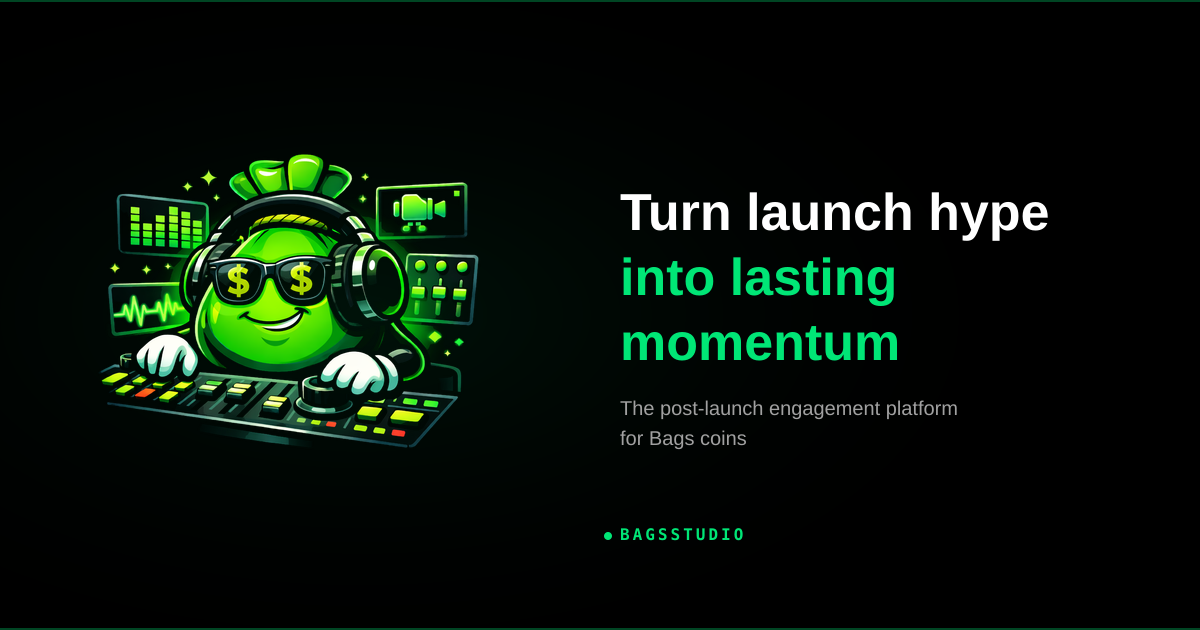
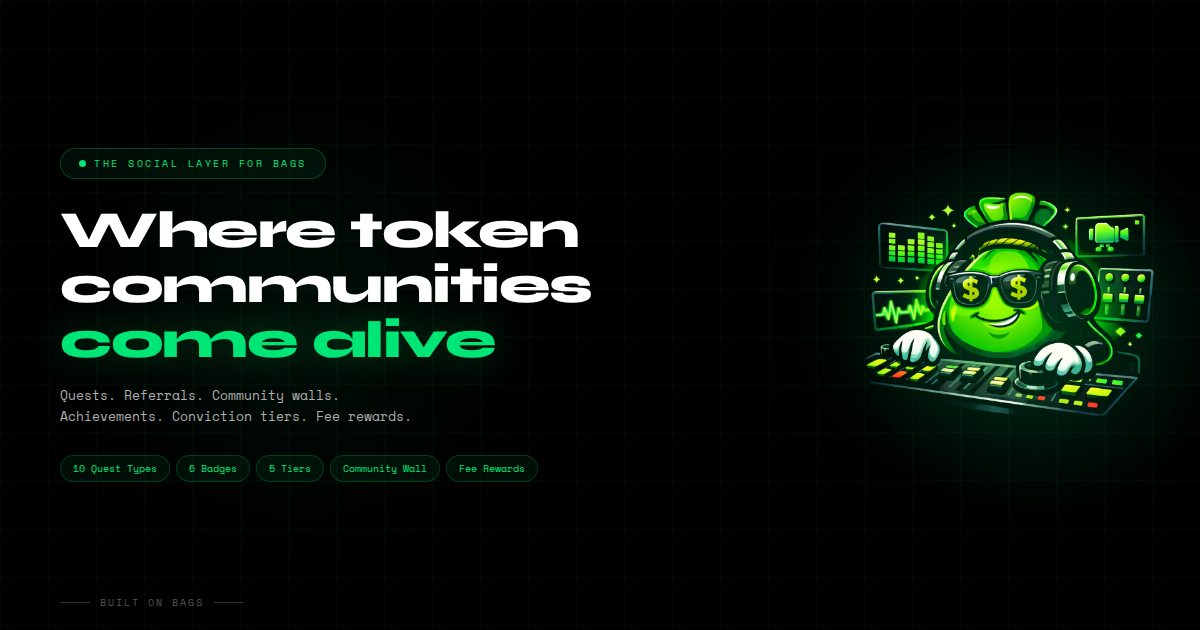
Update README, OG image, and add screenshots for submission
New OG image with mascot and feature pills. Full README rewrite
showcasing all platform features: community wall, 10 quest types,
6 achievement badges, conviction scoring, fee rewards, referral
engine, and profile cards. Added screenshots of all key pages.
Includes architecture diagram, database schema, and staking roadmap.

diff --git a/README.md b/README.md
@@ -1,61 +1,156 @@
-# BagsStudio
+<p align="center">
+  <img src="public/og.png" alt="BagsStudio" width="100%" />
+</p>
 
-The engagement platform for [Bags](https://bags.fm) coins. Launch tokens, trade, claim fees, run quests, and reward your most active supporters — all without leaving BagsStudio.
+<h1 align="center">BagsStudio</h1>
 
-> **Turn launch hype into lasting community momentum.**
+<p align="center">
+  <strong>The social engagement layer for Bags tokens.</strong><br/>
+  Quests. Referrals. Community walls. Achievement badges. Conviction tiers. Fee rewards.<br/>
+  Everything your token needs to build a real community.
+</p>
 
-## What it does
+<p align="center">
+  <a href="#features">Features</a> ·
+  <a href="#screenshots">Screenshots</a> ·
+  <a href="#tech-stack">Tech Stack</a> ·
+  <a href="#getting-started">Getting Started</a> ·
+  <a href="#architecture">Architecture</a> ·
+  <a href="#roadmap">Roadmap</a>
+</p>
 
-BagsStudio wraps the full Bags experience (launch, trade, claim, apps) and layers an engagement system on top: points, referrals, quests, streaks, and SOL-denominated rewards funded by trading fees.
+---
 
-| Layer | Features |
+## Features
+
+### Community Wall
+Token-gated social feed per token. Only holders can post, anyone can react. Five emoji reactions with optimistic UI. Click any wallet to view their full profile card.
+
+### Gamified Quests (10 types)
+All server-side verified. No client-side cheating.
+
+| Quest Type | Verification |
 |---|---|
-| **Bags Wrapper** | Token launch wizard, swap UI, fee claiming, Bags apps marketplace |
-| **Engagement** | Points system (with 10%/mo decay), referral program, quest builder, holding streaks, activity feed |
-| **Rewards** | Fee-share vault config, weekly epoch distribution, pro-rata SOL claims |
+| Token Balance | On-chain via Solana RPC |
+| Holding Streak | Streak tracker in DB |
+| Trade Volume | Trade logs from platform swaps |
+| Referral Count | Verified referrals table |
+| Hold Duration | Streak tracker in DB |
+| Claim Count | Engagement points ledger |
+| Tier Reached | Leaderboard rank percentile |
+| Complete Quests | Meta: count other completions |
+| Social Share | Manual creator approval |
+| Custom | Manual creator approval |
 
-## Tech stack
+### Achievement Badges
+Six badges auto-awarded when conditions are met:
 
-- **Framework** — [Next.js 16](https://nextjs.org) (App Router, Turbopack)
-- **Database** — [Supabase](https://supabase.com) (PostgreSQL + RLS)
-- **Chain** — [Solana](https://solana.com) mainnet via [Helius](https://helius.dev) RPC
-- **Wallet** — `@solana/wallet-adapter` (Phantom, Solflare)
-- **Styling** — [Tailwind CSS 4](https://tailwindcss.com)
-- **Animations** — [Framer Motion](https://www.framer.com/motion)
-- **Data fetching** — [SWR](https://swr.vercel.app)
-- **Tests** — [Playwright](https://playwright.dev)
+- **OG Holder** : Among the first 100 supporters
+- **Diamond Hands** : 30+ day holding streak
+- **Quest Master** : 5+ quests completed
+- **Evangelist** : 10+ verified referrals
+- **Whale** : Top 1% on leaderboard
+- **Social Butterfly** : 10+ community posts
 
-## Getting started
+### Conviction Scoring
+Five tiers based on balance (50pts), claim consistency (30pts), and claim history (20pts):
+
+| Tier | Percentile | Color |
+|---|---|---|
+| Champion | Top 1% | Gold |
+| Catalyst | Top 5% | Purple |
+| Loyal | Top 15% | Green |
+| Active | Top 40% | Blue |
+| OG | Rest | Gray |
+
+### Fee Rewards
+Trade fees accumulate in a vault wallet via Bags AMM fee-share. Weekly epochs distribute SOL pro-rata based on engagement points. Guided setup flow for creators.
+
+### Referral Engine
+Each holder gets a unique referral link. Referrals are verified on-chain (referred wallet must actually hold the token). Both parties earn points.
+
+### Profile Cards
+Click any wallet on the leaderboard or community wall to see their full profile: tier badge, points breakdown, streak, quest count, referral count, post count, and earned achievement badges.
+
+### Dark/Light Mode
+Full theme toggle with CSS variable indirection for Tailwind v4 compatibility. Persists to localStorage.
+
+---
+
+## Screenshots
+
+<table>
+  <tr>
+    <td><img src="public/screenshots/landing.png" alt="Landing Page" /></td>
+    <td><img src="public/screenshots/studio.png" alt="Studio Home" /></td>
+  </tr>
+  <tr>
+    <td align="center"><em>Landing Page</em></td>
+    <td align="center"><em>Studio Home</em></td>
+  </tr>
+  <tr>
+    <td><img src="public/screenshots/dashboard.png" alt="Token Dashboard" /></td>
+    <td><img src="public/screenshots/community.png" alt="Community Wall" /></td>
+  </tr>
+  <tr>
+    <td align="center"><em>Token Dashboard</em></td>
+    <td align="center"><em>Community Wall</em></td>
+  </tr>
+  <tr>
+    <td><img src="public/screenshots/quests.png" alt="Quests" /></td>
+    <td><img src="public/screenshots/rewards.png" alt="Rewards" /></td>
+  </tr>
+  <tr>
+    <td align="center"><em>Quests</em></td>
+    <td align="center"><em>Rewards</em></td>
+  </tr>
+</table>
+
+---
+
+## Tech Stack
+
+| Layer | Technology |
+|---|---|
+| Framework | [Next.js 16](https://nextjs.org) (App Router, Turbopack) |
+| Database | [Supabase](https://supabase.com) (PostgreSQL + RLS) |
+| Chain | [Solana](https://solana.com) mainnet via [Helius](https://helius.dev) RPC |
+| Wallet | `@solana/wallet-adapter` (Phantom, Solflare) |
+| Styling | [Tailwind CSS 4](https://tailwindcss.com) with CSS variable theming |
+| Animations | [Framer Motion](https://www.framer.com/motion) |
+| Data Fetching | [SWR](https://swr.vercel.app) |
+| Testing | [Playwright](https://playwright.dev) |
+
+---
+
+## Getting Started
 
 ### Prerequisites
 
 - Node.js 18+
-- A [Bags API key](https://docs.bags.fm)
-- A [Supabase](https://supabase.com) project
-- A [Helius](https://helius.dev) API key (optional, falls back to public RPC)
+- [Bags API key](https://docs.bags.fm)
+- [Supabase](https://supabase.com) project
+- [Helius](https://helius.dev) API key (optional, falls back to public RPC)
 
 ### Setup
 
 ```bash
-# Clone and install
 git clone https://github.com/your-org/bags-studio.git
 cd bags-studio
 npm install
 
-# Configure environment
 cp .env.example .env
 # Fill in BAGS_API_KEY, SUPABASE_*, HELIUS_API_KEY, CRON_SECRET
 
-# Run the schema migration
-# Copy supabase-schema.sql into the Supabase SQL Editor and execute
+# Run schema migration in Supabase SQL Editor
+# (copy supabase-schema.sql)
 
-# Start dev server
 npm run dev
 ```
 
 Open [http://localhost:3000](http://localhost:3000).
 
-### Environment variables
+### Environment Variables
 
 | Variable | Required | Description |
 |---|---|---|
@@ -66,80 +161,93 @@ Open [http://localhost:3000](http://localhost:3000).
 | `SUPABASE_SERVICE_KEY` | Yes | Supabase service role key (server-side writes) |
 | `CRON_SECRET` | Yes | Auth token for cron job endpoints |
 
-## Project structure
-
-```
-app/
-  api/
-    bags/[...path]/     # Bags API proxy (GET + POST)
-    launch/             # Token launch (metadata, config, tx)
-    trade/              # Swap quote + transaction
-    fees/               # Claimable positions + claim txs
-    engage/[mint]/      # Points, referrals, quests, feed, vault, rewards
-    cron/               # Daily streak/points refresh, weekly reward epochs
-    dashboard/[mint]/   # Consolidated dashboard data
-    campaigns/          # Campaign CRUD + eligibility
-    score/[mint]/       # Conviction score computation
-  studio/
-    launch/             # Token launch wizard
-    [mint]/             # Dashboard, trade, quests, rewards, apps, campaigns
-  r/[code]/             # Referral interstitial page
-  campaign/[id]/        # Public campaign view
-
-components/studio/      # Reusable UI components
-lib/                    # Core business logic
-  bags-wrapper.ts       # Bags API helpers (launch, trade, fees)
-  points.ts             # Points ledger + decay + leaderboard
-  referral.ts           # Referral code generation + verification
-  quests.ts             # Quest CRUD + auto-check + submissions
-  streaks.ts            # Holding streak tracking
-  rewards.ts            # Vault config + epoch creation + claims
-  feed.ts               # Activity feed
-  conviction.ts         # Conviction scoring algorithm
-  cache.ts              # In-memory TTL cache
-  score-cache.ts        # Supabase-backed score cache
-```
+---
 
 ## Architecture
 
 ```
-┌─────────────────────────────────────────────┐
-│              BagsStudio Frontend             │
-│  Launch  Trade  Claim  Apps  Engage          │
-└────────────────┬────────────────────────────┘
-                 │
-┌────────────────▼────────────────────────────┐
-│           Next.js API Routes                │
-│  /api/launch  /api/trade  /api/engage       │
-│  /api/fees    /api/cron   /api/dashboard    │
-└──┬──────────┬──────────┬───────────────────┘
+┌──────────────────────────────────────────────────────┐
+│                 BagsStudio Frontend                  │
+│  Landing · Studio · Dashboard · Community · Quests   │
+│  Trade · Rewards · Referrals · Profiles              │
+└───────────────────┬──────────────────────────────────┘
+                    │
+┌───────────────────▼──────────────────────────────────┐
+│              Next.js API Routes (30+)                │
+│  /api/engage/[mint]/community    (posts, reactions)  │
+│  /api/engage/[mint]/quests       (CRUD, check, submit)│
+│  /api/engage/[mint]/profile      (aggregated profile)│
+│  /api/engage/[mint]/referral     (codes, verify)     │
+│  /api/engage/[mint]/rewards      (vault, epochs)     │
+│  /api/trade  /api/launch  /api/fees  /api/cron       │
+└──┬──────────┬──────────┬─────────────────────────────┘
    │          │          │
    ▼          ▼          ▼
- Bags API   Helius    Supabase
- (launch,   (holders,  (points, quests,
-  trade,     metadata)  referrals, feed,
-  fees,                 rewards, streaks)
-  apps)
+ Bags API   Solana     Supabase (15 tables)
+ (launch,   RPC        (points, quests, community,
+  trade,    (balance    referrals, achievements,
+  fees)     verify)     streaks, rewards, feed)
 ```
 
-### Key design decisions
+### Database (15 tables)
 
-- **Non-custodial** — users sign all transactions via wallet adapter; the server never holds keys
-- **Append-only points** — engagement points are an immutable ledger; the leaderboard is a materialized view with decay applied at read time
-- **Complementary to DividendsBot** — DividendsBot handles passive holder rewards, BagsStudio handles active engagement rewards
-- **Referral interstitial** — referral links go to a branded landing page, not directly to Bags
-- **Social quest approval** — social_share and custom quests require manual creator approval; other types are auto-verified
+| Table | Purpose |
+|---|---|
+| `engagement_points` | Append-only points ledger |
+| `engagement_leaderboard` | Materialized leaderboard with decay |
+| `quests` | Creator-defined quests (10 types) |
+| `quest_completions` | One-per-wallet completion records |
+| `quest_submissions` | Proof submissions for approval quests |
+| `community_posts` | Token-gated social wall |
+| `post_reactions` | Emoji reactions on posts |
+| `achievements` | Earned badge records |
+| `referral_codes` | Unique referral codes per wallet |
+| `referrals` | Referral tracking (pending/verified) |
+| `holding_streaks` | Current and longest streaks |
+| `reward_vaults` | Vault config per token |
+| `reward_epochs` | Weekly distribution snapshots |
+| `reward_claims` | Individual pro-rata claims |
+| `trade_logs` | Swap logs for volume tracking |
 
-## Cron jobs
+### Key Design Decisions
 
-Two cron endpoints need to be called on a schedule (e.g. via [Vercel Cron](https://vercel.com/docs/cron-jobs)):
+- **Non-custodial**: Users sign all transactions via wallet adapter. The server never holds keys.
+- **Server-side verification**: Quest completions verified on the server using on-chain data and Solana RPC. No client-trusted values.
+- **Append-only points**: Engagement points are an immutable ledger. The leaderboard is a materialized view with 10%/month decay.
+- **Token-gated posting**: Community wall requires on-chain token balance > 0 to post. Reactions are open to everyone.
+- **On-chain referral verification**: Referrals only verify when the referred wallet actually holds the token, checked via Solana RPC.
 
-| Endpoint | Schedule | What it does |
+---
+
+## Cron Jobs
+
+| Endpoint | Schedule | Purpose |
 |---|---|---|
-| `POST /api/cron/daily-refresh` | Daily | Updates holding streaks, awards daily hold/streak points, refreshes leaderboard ranks |
-| `POST /api/cron/weekly-rewards` | Weekly | Checks vault balances, creates reward epochs with pro-rata distribution |
+| `POST /api/cron/daily-refresh` | Daily | Update streaks, award hold/streak points, refresh leaderboard |
+| `POST /api/cron/weekly-rewards` | Weekly | Check vault balances, create reward epochs |
 
-Both require an `Authorization: Bearer <CRON_SECRET>` header.
+Both require `Authorization: Bearer <CRON_SECRET>`.
+
+---
+
+## Roadmap
+
+### Coming Soon: One-Click Staking
+
+- Creator sets up a staking vault in one click
+- Supporters stake tokens, accumulate weight over time
+- Stake weight = amount x duration
+- Proportional share of trade fees distributed to stakers
+- Staking leaderboard with real-time rankings
+- Auto-compounding rewards
+
+### Formula
+
+```
+your_share = (stake_amount x days_staked) / total_weighted_stake x fee_pool
+```
+
+---
 
 ## Scripts
 
@@ -148,15 +256,7 @@ npm run dev       # Start dev server (Turbopack)
 npm run build     # Production build
 npm run start     # Start production server
 npm run lint      # ESLint
-npx playwright test  # E2E tests
 ```
-
-## Contributing
-
-1. Fork the repo
-2. Create a feature branch (`git checkout -b feat/my-feature`)
-3. Commit your changes
-4. Open a PR against `main`
 
 ## License
 
@@ -164,4 +264,6 @@ MIT
 
 ---
 
-Built for the [Bags Hackathon](https://bags.fm). Powered by Bags.
+<p align="center">
+  Built for the <a href="https://bags.fm">Bags Hackathon 2026</a>. Powered by Bags.
+</p>
